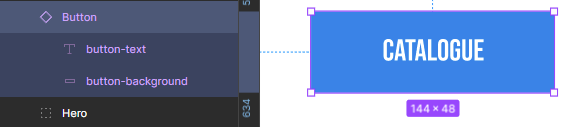
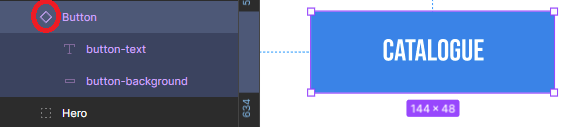
09-figma-composants.md: correction typos

Changed region(s): [[0.0311, 0.0, 0.1244, 0.2598]]

diff --git a/cours/09-figma-composants.md b/cours/09-figma-composants.md
@@ -2,15 +2,15 @@
 
 ## Atomic design
 
-Jusqu'ici, on a vu comment enregistrer une variable et des paramètres prédéfinis afin de faciliter notre travail en amont. Mais on peut encore aller plus loin 🚀.
+Jusqu'ici, on a vu comment enregistrer une variable et des styles prédéfinis afin de faciliter notre travail en amont. Mais on peut encore aller plus loin 🚀.
 
-Généralement, lorsque l'on pense à maquetter une page, on imagine réfléchir page par page, cela semble tout à fait logique et on va faire en allant, un peu de manière empirique.
+Généralement, lorsque l'on pense à maquetter une page, on imagine réfléchir page par page; cela semble tout à fait logique et on va faire en allant, un peu de manière empirique.
 
-Cette manière de faire était dans les habitudes de tous jusqu'à ce qu'en 2015, un designer système, apporte le concept d'**Atomic Design**. Celui-ci va révolutionner la manière de créer un design system, entendez par là un groupement d'éléments comme des boutons, champs de formulaires, ... du plus petit au plus grand. 🤏🙌
+Bien que logique au premier abord, un designer système du nom de Brad Frost apporte le concept d'**Atomic Design** en 2015. Celui-ci va révolutionner la manière de créer un design system, entendez par là un groupement d'éléments comme des boutons, champs de formulaires, ... du plus petit au plus grand. 🤏🙌
 
 _Hein ? Je ... Quoi ?_ 🫠
 
-En fait, Brad Frost propose que plutôt que de créer une page avec des éléments qui vont évoluer au fur et à mesure au besoin de créer les éléments avant puis de construire nos pages avec. On partira des éléments récurrents les plus petits et réutilisables pour en construire de plus grand.
+En fait, Brad Frost propose de **créer des éléments d'UI (User Interface) indépendants** que l'on réutilisera dans toutes nos pages. Cela permettra de se focaliser sur chaque élément comme une entité propre, adaptative selon notre besoin.
 
 **Voici un exemple de réflexion en Atomic Design ⚛** :
 
@@ -79,9 +79,9 @@ _Trop bien ! Figma m'a aidé à trouver la position idéale, comme si c'était a
 
 > Tu l'as déjà peut-être remarqué en bougeant des formes sur une frame aussi ! 🧲 Figma propose des repères aimantés afin de disposer nos éléments. Et attention, il nous donne plein d'autres indications lorsque l'on déplace un élément, notamment un repère pour obtenir une marge équivalente entre différents éléments, un alignement selon des éléments déjà positionnés. Cette fonctionnalité est très intuitive et puissante. 💪
 
-Revenons-en à notre composant. On n'a pas totalement fini avec lui, nous allons en faire un composant.
+Revenons-en à notre bouton. On n'a pas totalement fini avec lui, nous allons en faire un composant. 🪄
 
-- Comme pour un groupe, tu vas sélectionner les deux éléments (le texte et le rectangle) puis tu vas appuyer sur l'icône `Create component` (un losange composé de quatre carrés)situé dans la barre d'outils, au centre.
+- Comme pour un groupe, tu vas sélectionner les deux éléments (le texte et le rectangle) puis tu vas appuyer sur l'icône `Create component` (un losange composé de quatre carrés) situé dans la barre d'outils, au centre.
 
 <p align="center">
     <img src="../assets/09-figma-composants/create-component.gif"/>
@@ -110,15 +110,9 @@ Tu n'as plus qu'à sélectionner le composant bouton et le placer sur la frame.
 
 Nous venons de créer et d'ajouter **une instance** de notre composant `Button`. 🥳
 
-> Instance ? 🤔 Tu as peut-être déjà entendu ce terme. On en parle en développement quand qu'on crée une nouvelle instance d'une classe, d'un objet. Si toutefois c'est encore flou : une instance est un nouvel objet basé sur un modèle. Dans notre cas, on a créé un nouveau bouton sur le composant `Button`.
+> Instance ? 🤔 Tu as peut-être déjà entendu ce terme. On en parle en développement quand qu'on crée une nouvelle instance d'une classe, d'un objet. Si toutefois c'est encore flou : une instance est un nouvel objet basé sur un modèle. Dans notre cas, on a créé une nouvelle instance du composant `Button`.
 
 Il ne manque plus qu'à changer le contenu de notre texte qui n'est pas exact. Dans notre Hero, l'instance de `Button` comporte le texte `Catalogue`. Change le texte de l'instance créée sur ta maquette puis retourne sur la zone de travail `Components` afin de voir si cela a changé le composant.
-
-**Voici notre instance :**
-
-<p align="center">
-    <img src="../assets/09-figma-composants/button-instance.png"/>
-</p>
 
 **Voici notre composant :**
 
@@ -126,9 +120,15 @@ Il ne manque plus qu'à changer le contenu de notre texte qui n'est pas exact. D
     <img src="../assets/09-figma-composants/button-component.png"/>
 </p>
 
-> Si tu fais bien attention, le symbole 'diamant` qui représente notre composant est plein lorsque l'on sélectionne le composant; ce qui n'est pas le cas lorsque l'on sélectionne une instance. 🔍
+**Voici notre instance :**
 
-Et c'est là tout l'intérêt du composant et d'une instance. 🤓
+<p align="center">
+    <img src="../assets/09-figma-composants/button-instance.png"/>
+</p>
+
+> On a fait un petit cercle en rouge afin de t'indiquer le symbole qui te permet de reconnaître un composant (diamant plein) et une instance (diamant vide). 🔍
+
+Pour finir, précisons :
 
 - **Un composant** va définir un design de base que ses instances vont appliquer. Si tu changes la couleur du bouton, toutes les instances vont prendre ce changement en compte.
 - **Une instance** est définie par le composant mais reste un élément que tu peux modifier individuellement, cela n'impactera pas les autres instances ni le composant initial. C'est pour cela que tu as pu changer le texte et personnaliser le bouton à cet endroit.
